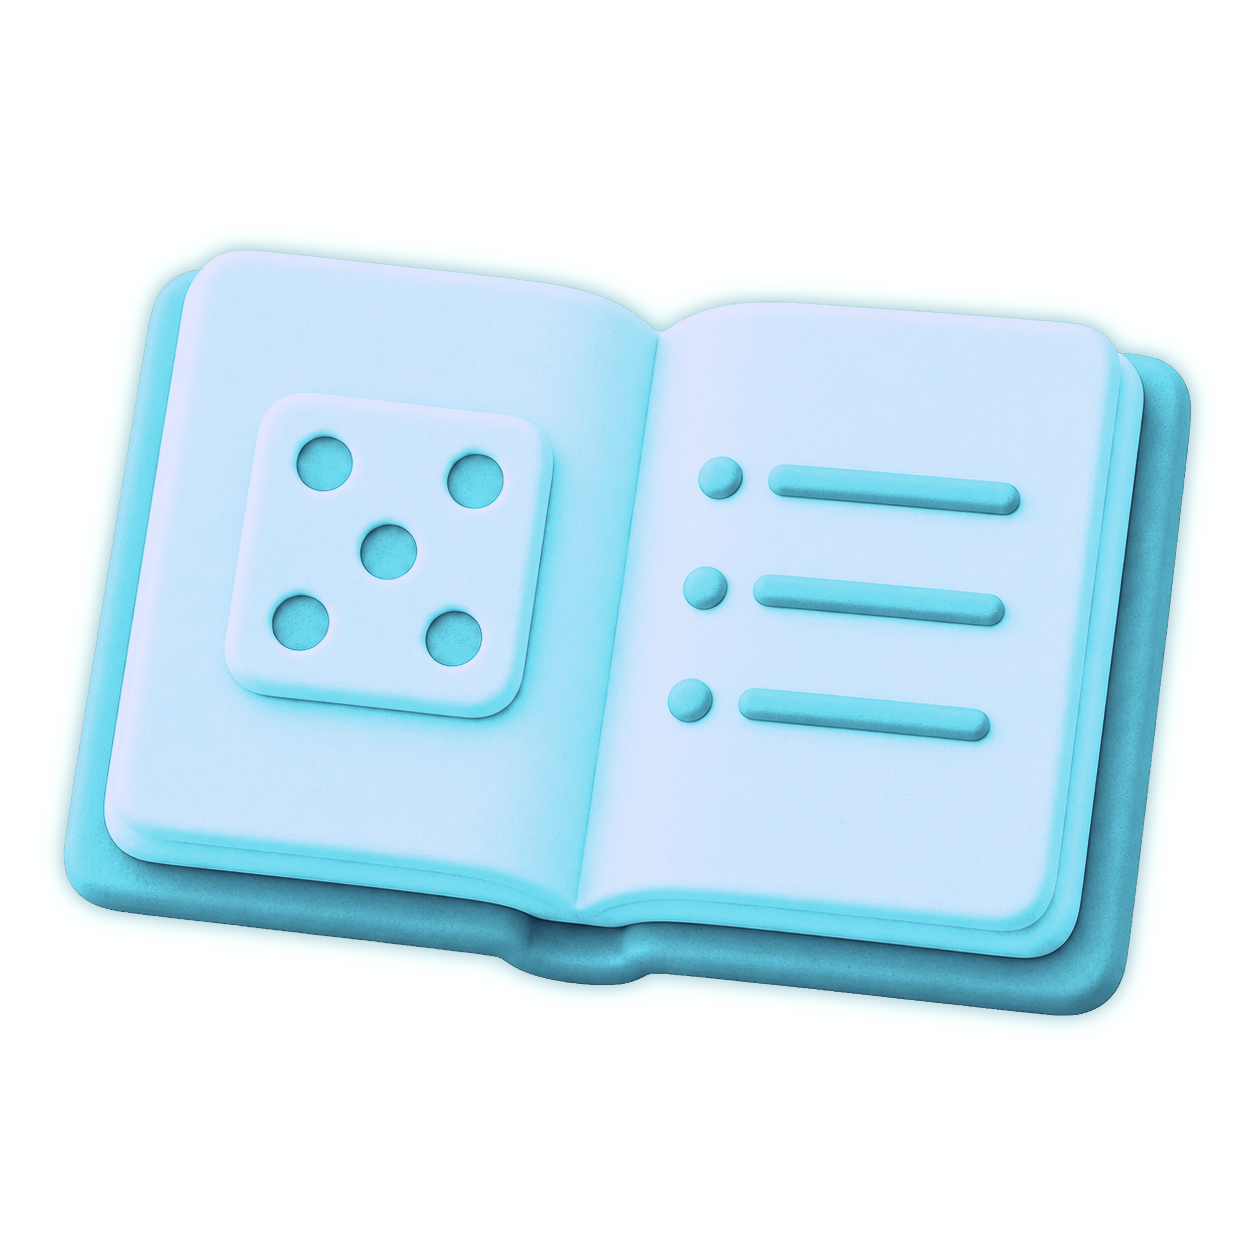
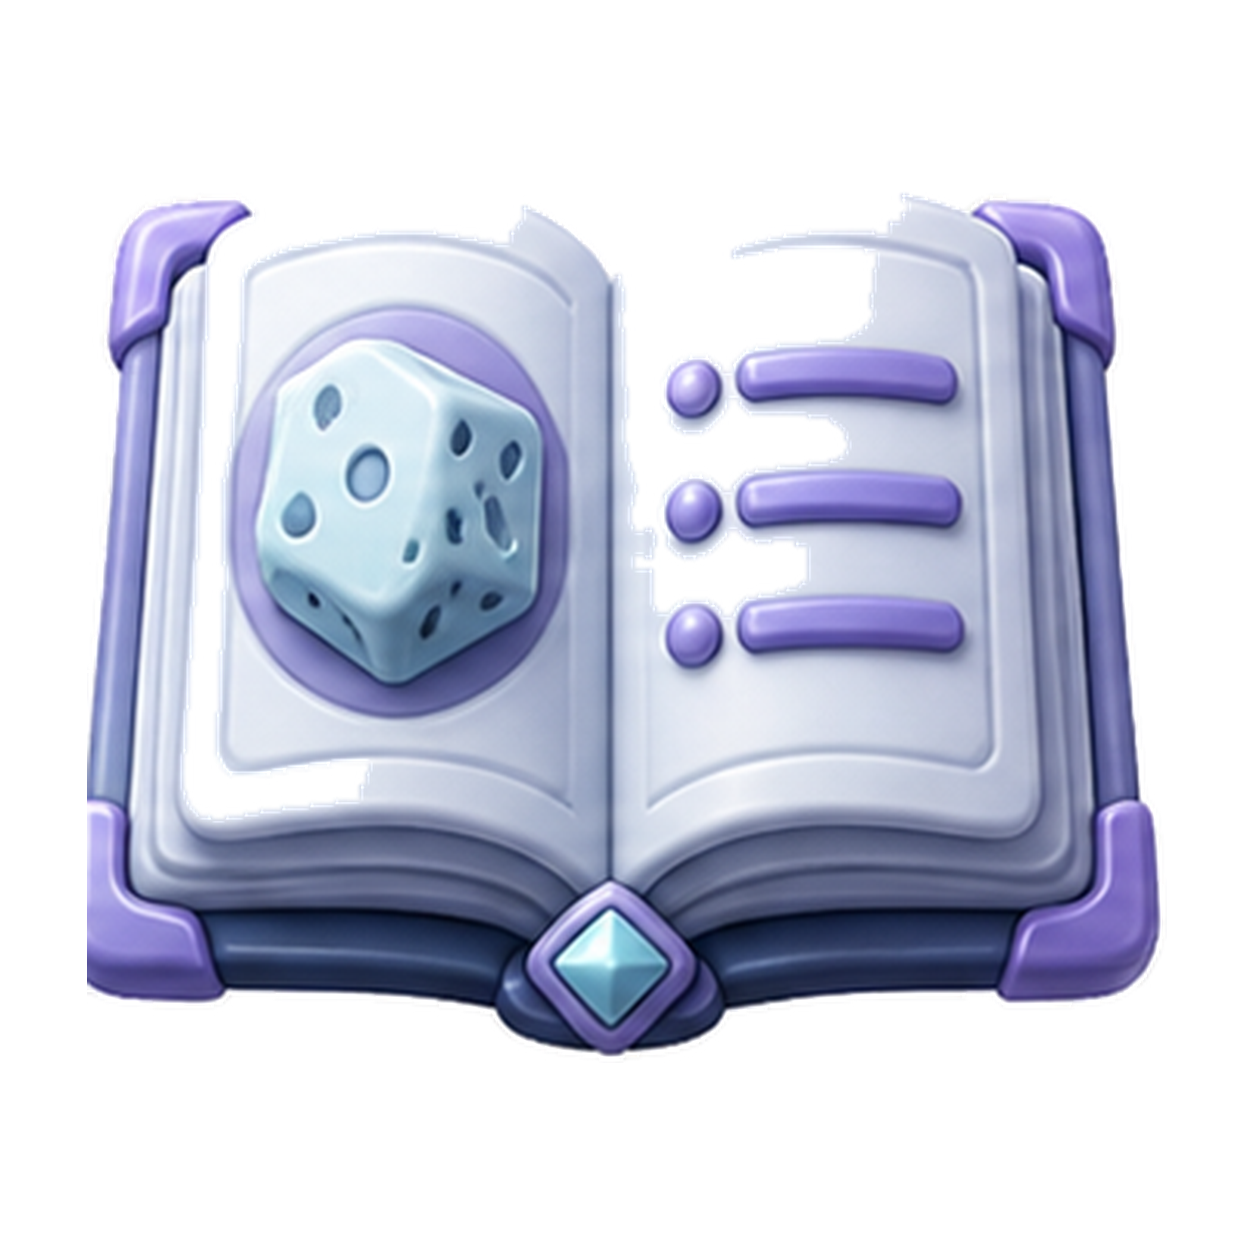
01

diff --git a/www/index.html b/www/index.html
@@ -7,8 +7,8 @@
     <link href="https://fonts.googleapis.com/css2?family=Montserrat:wght@200;400;600;700&display=swap" rel="stylesheet">
     
     <link rel="stylesheet" href="style.css?v=5.19">
-    <link rel="stylesheet" href="teme.css?v=6.18">
-    <link rel="stylesheet" href="kockice.css?v=1.2">
+    <link rel="stylesheet" href="teme.css?v=6.20">
+    <link rel="stylesheet" href="kockice.css?v=1.3">
     <link rel="stylesheet" href="efekti.css?v=1.4">
     
     <script src="languages.js?v=5.2"></script>
@@ -571,31 +571,31 @@
                 <svg class="menu-svg-icon menu-svg-icon--daily" aria-hidden="true" focusable="false"><use href="#menu-icon-daily"></use></svg>
                 <img class="easter-soft-clay-icon easter-soft-clay-icon--daily" src="assets/easter-soft-clay/daily-challenge-pro.png?v=3" alt="" aria-hidden="true" decoding="async">
                 <img class="desert-soft-clay-icon desert-soft-clay-icon--daily" src="assets/desert-soft-clay/daily-challenge-pro.png?v=1" alt="" aria-hidden="true" decoding="async">
-                <img class="nebula-soft-clay-icon nebula-soft-clay-icon--daily" src="assets/severna-soft-clay/daily-challenge-pro.png?v=1" alt="" aria-hidden="true" decoding="async">
+                <img class="nebula-soft-clay-icon nebula-soft-clay-icon--daily" src="assets/severna-soft-clay/daily-challenge-pro.png?v=3" alt="" aria-hidden="true" decoding="async">
             </button>
             <button class="btn-square" onclick="app.showHighscoresScreen()" aria-label="Top lista" data-lang-aria="menu_hs">
                 <svg class="menu-svg-icon" aria-hidden="true" focusable="false"><use href="#menu-icon-leaderboard"></use></svg>
                 <img class="easter-soft-clay-icon" src="assets/easter-soft-clay/leaderboard-pro.png" alt="" aria-hidden="true" decoding="async">
                 <img class="desert-soft-clay-icon" src="assets/desert-soft-clay/leaderboard-pro.png?v=1" alt="" aria-hidden="true" decoding="async">
-                <img class="nebula-soft-clay-icon" src="assets/severna-soft-clay/leaderboard-pro.png?v=1" alt="" aria-hidden="true" decoding="async">
+                <img class="nebula-soft-clay-icon" src="assets/severna-soft-clay/leaderboard-pro.png?v=3" alt="" aria-hidden="true" decoding="async">
             </button>
             <button class="btn-square" onclick="app.showStats()" aria-label="Statistika" data-lang-aria="menu_stats">
                 <svg class="menu-svg-icon" aria-hidden="true" focusable="false"><use href="#menu-icon-stats"></use></svg>
                 <img class="easter-soft-clay-icon" src="assets/easter-soft-clay/statistics-pro.png" alt="" aria-hidden="true" decoding="async">
                 <img class="desert-soft-clay-icon" src="assets/desert-soft-clay/statistics-pro.png?v=1" alt="" aria-hidden="true" decoding="async">
-                <img class="nebula-soft-clay-icon" src="assets/severna-soft-clay/statistics-pro.png?v=1" alt="" aria-hidden="true" decoding="async">
+                <img class="nebula-soft-clay-icon" src="assets/severna-soft-clay/statistics-pro.png?v=3" alt="" aria-hidden="true" decoding="async">
             </button>
             <button class="btn-square" onclick="app.showSettings()" aria-label="Podešavanja" data-lang-aria="menu_settings">
                 <svg class="menu-svg-icon" aria-hidden="true" focusable="false"><use href="#menu-icon-settings"></use></svg>
                 <img class="easter-soft-clay-icon" src="assets/easter-soft-clay/settings-pro.png" alt="" aria-hidden="true" decoding="async">
                 <img class="desert-soft-clay-icon" src="assets/desert-soft-clay/settings-pro.png?v=1" alt="" aria-hidden="true" decoding="async">
-                <img class="nebula-soft-clay-icon" src="assets/severna-soft-clay/settings-pro.png?v=1" alt="" aria-hidden="true" decoding="async">
+                <img class="nebula-soft-clay-icon" src="assets/severna-soft-clay/settings-pro.png?v=3" alt="" aria-hidden="true" decoding="async">
             </button>
             <button class="btn-square" onclick="app.showRules()" aria-label="Pravila igre" data-lang-aria="menu_rules">
                 <svg class="menu-svg-icon" aria-hidden="true" focusable="false"><use href="#menu-icon-rules"></use></svg>
                 <img class="easter-soft-clay-icon" src="assets/easter-soft-clay/rules-pro.png" alt="" aria-hidden="true" decoding="async">
                 <img class="desert-soft-clay-icon" src="assets/desert-soft-clay/rules-pro.png?v=1" alt="" aria-hidden="true" decoding="async">
-                <img class="nebula-soft-clay-icon" src="assets/severna-soft-clay/rules-pro.png?v=1" alt="" aria-hidden="true" decoding="async">
+                <img class="nebula-soft-clay-icon" src="assets/severna-soft-clay/rules-pro.png?v=3" alt="" aria-hidden="true" decoding="async">
             </button>
         </div>
     </div>

diff --git a/www/kockice.css b/www/kockice.css
@@ -49,6 +49,7 @@
 .preview-glass_sapphire { background: linear-gradient(135deg, rgba(65, 105, 225, 0.5), rgba(0, 0, 100, 0.4)); border: 1px solid rgba(100, 150, 255, 0.5); color: #c0d0ff; box-shadow: inset 0 0 15px rgba(65, 105, 225, 0.4); }
 .preview-desert_glass { background: linear-gradient(145deg, #fff7e5, #e8b96f); border: 1px solid rgba(151,84,35,.42); color: #5b3117; box-shadow: 4px 4px 8px rgba(124,68,31,.24), -3px -3px 7px rgba(255,250,234,.72), inset 1px 1px 2px rgba(255,255,255,.82); }
 .preview-easter_neumorphic { background: linear-gradient(145deg, #fffaf4 0%, #f7e8f2 54%, #ddcbed 100%); border: 1px solid rgba(151,83,156,.34); color: #6b2c8f; box-shadow: 4px 4px 8px rgba(184,148,111,.24), -3px -3px 7px rgba(255,255,255,.74), inset 1px 1px 2px rgba(255,255,255,.86); }
+.preview-severna_nebula { background: radial-gradient(circle at 28% 22%, #f1feff 0%, #8cefff 34%, #9f8dff 58%, #102247 100%); border: 1px solid rgba(207,250,255,.72); color: #061526; box-shadow: 4px 4px 9px rgba(0,3,16,.34), -3px -3px 8px rgba(142,238,255,.26), inset 1px 1px 3px rgba(255,255,255,.76), inset -2px -2px 4px rgba(6,18,46,.28); }
 .preview-magma { background: radial-gradient(circle, #ffeb3b 10%, #ff9800 40%, #b71c1c 90%); color: #fff; border: 2px solid #ff5722; box-shadow: 0 0 10px #ff5722; text-shadow: 0 0 2px #000; animation: magmaPulse 3s infinite alternate; }
 @keyframes magmaPulse { 0% { box-shadow: 0 0 10px #ff5722; } 100% { box-shadow: 0 0 20px #ff9800; } }
 .preview-galaxy { background: radial-gradient(circle at 30% 30%, #a18cd1 0%, #302b63 50%, #0f0c29 100%); color: #fff; border: 1px solid #a18cd1; box-shadow: 0 0 10px rgba(161, 140, 209, 0.5); }
@@ -105,6 +106,7 @@
 .dice.skin-glass_sapphire { background: linear-gradient(135deg, rgba(65, 105, 225, 0.5), rgba(0, 0, 100, 0.4)) !important; border: 1px solid rgba(100, 150, 255, 0.5) !important; color: #c0d0ff !important; box-shadow: inset 0 0 5px rgba(65, 105, 225, 0.4) !important; }
 .dice.skin-desert_glass { background: linear-gradient(145deg, #fff7e5, #e8b96f) !important; border: 1px solid rgba(151,84,35,.42) !important; color: #5b3117 !important; box-shadow: 5px 5px 11px rgba(124,68,31,.27), -5px -5px 11px rgba(255,250,234,.72), inset 1px 1px 2px rgba(255,255,255,.82) !important; }
 .dice.skin-easter_neumorphic { background: linear-gradient(145deg, #fffaf4 0%, #f7e8f2 54%, #ddcbed 100%) !important; border: 1px solid rgba(151,83,156,.34) !important; color: #6b2c8f !important; box-shadow: 6px 6px 12px rgba(184,148,111,.34), -5px -5px 12px rgba(255,255,255,.82), inset 1px 1px 2px rgba(255,255,255,.86), inset -1px -1px 2px rgba(160,118,82,.12) !important; }
+.dice.skin-severna_nebula { background: radial-gradient(circle at 28% 22%, #f1feff 0%, #8cefff 34%, #9f8dff 58%, #102247 100%) !important; border: 1px solid rgba(207,250,255,.72) !important; color: #061526 !important; box-shadow: 6px 6px 13px rgba(0,3,16,.42), -5px -5px 12px rgba(142,238,255,.24), 0 0 12px rgba(134,247,255,.20), inset 1px 1px 3px rgba(255,255,255,.78), inset -2px -2px 5px rgba(6,18,46,.30) !important; }
 .dice.skin-magma { background: radial-gradient(circle, #ffeb3b 10%, #ff9800 40%, #b71c1c 90%) !important; color: #fff !important; border: 1px solid #ff5722 !important; box-shadow: 0 0 5px #ff5722 !important; text-shadow: 0 0 2px #000 !important; animation: magmaPulseDice 3s infinite alternate !important; }
 .dice.skin-galaxy { background: radial-gradient(circle at 30% 30%, #a18cd1 0%, #302b63 50%, #0f0c29 100%) !important; color: #fff !important; border: 1px solid #a18cd1 !important; box-shadow: 0 0 5px rgba(161, 140, 209, 0.5) !important; }
 .dice.skin-retro { background-color: #9bbc0f !important; background-image: linear-gradient(transparent 50%, rgba(0,0,0,0.1) 50%), linear-gradient(90deg, transparent 50%, rgba(0,0,0,0.1) 50%) !important; background-size: 4px 4px !important; color: #0f380f !important; border: 2px solid #0f380f !important; font-family: 'Courier New', monospace !important; font-weight: 900 !important; border-radius: 4px !important; }
@@ -122,6 +124,15 @@
 /* Magma i Hologram efekti */
 .skin-magma .dice-dot, .preview-magma .dice-dot { box-shadow: 0 0 3px #000, inset 0 2px 4px rgba(0,0,0,0.5) !important; }
 .skin-hologram .dice-dot, .preview-hologram .dice-dot { box-shadow: 2px 0 #00ffff, -1px 0 #ff00ff, inset 0 2px 4px rgba(0,0,0,0.3) !important; }
+
+.skin-severna_nebula .dice-dot,
+.preview-severna_nebula .dice-dot {
+    background: radial-gradient(circle at 36% 30%, #ffffff 0%, #d9fbff 34%, #59dff3 78%) !important;
+    box-shadow:
+        0 0 6px rgba(134,247,255,.58),
+        inset 0 1px 2px rgba(255,255,255,.72),
+        inset 0 -2px 3px rgba(7,21,48,.34) !important;
+}
 
 /* Zlatni i Spartanski - dodavanje dubine crnim senkama */
 .skin-gold_ancient .dice-dot, .preview-gold_ancient .dice-dot,

diff --git a/www/game.js b/www/game.js
@@ -1459,15 +1459,13 @@ class YambApp {
             window.statsManager.saveStats();
         }
 
-        if (isFirstThemeSelection) {
+        if (isFirstThemeSelection && activateAsDefault) {
             localStorage.setItem(markerKey, 'true');
-            if (activateAsDefault) {
-                localStorage.setItem('yamb_active_skin', safeSkinId);
-                if (typeof this.updateDiceVisuals === 'function' && this.features) this.updateDiceVisuals();
-                document.querySelectorAll('.daily-glass-die.dice').forEach(element => {
-                    this.features?.applySkinToElement(element, element.classList.contains('held'));
-                });
-            }
+            localStorage.setItem('yamb_active_skin', safeSkinId);
+            if (typeof this.updateDiceVisuals === 'function' && this.features) this.updateDiceVisuals();
+            document.querySelectorAll('.daily-glass-die.dice').forEach(element => {
+                this.features?.applySkinToElement(element, element.classList.contains('held'));
+            });
         }
     }
 
@@ -1486,7 +1484,8 @@ class YambApp {
 
         const themeDefaultSkins = {
             desert: 'desert_glass',
-            easter: 'easter_neumorphic'
+            easter: 'easter_neumorphic',
+            severna: 'severna_nebula'
         };
         const defaultSkin = themeDefaultSkins[safeTheme];
         if (defaultSkin && !skipThemeDiceDefault) {
@@ -6506,22 +6505,24 @@ class YambApp {
         const activeTbl = document.getElementById(`ptable-${this.currentPlayerIdx}`);
         const gameScene = document.getElementById('game-scene');
         const isEasterTwoPlayerGame = document.body.classList.contains('easter-theme') && this.players.length === 2;
-        const isEasterOnlineDuel = isEasterTwoPlayerGame && this.onlineMode;
-        const isEasterRandomDuel = isEasterOnlineDuel
+        const isSevernaTwoPlayerGame = document.body.classList.contains('severna-theme') && this.players.length === 2;
+        const usesTwoPlayerThemePager = isEasterTwoPlayerGame || isSevernaTwoPlayerGame;
+        const isThemeOnlineDuel = usesTwoPlayerThemePager && this.onlineMode;
+        const isThemeRandomDuel = isThemeOnlineDuel
             && this.inferOnlineDuelType(this.roomId, { duelType: this.onlineDuelType }) === 'random';
         const isDesertSpectatorDuel = document.body.classList.contains('desert-theme') && this.isSpectator && this.players.length === 2;
-        // Vaskr koristi isti slobodan vertikalni pager za svaki režim sa dva igrača.
+        // Neuphorism teme koriste isti slobodan vertikalni pager za svaki režim sa dva igrača.
         if (gameScene) {
-            gameScene.classList.toggle('theme-dual-board-view', isEasterTwoPlayerGame);
-            gameScene.classList.toggle('online-duel-room', isEasterOnlineDuel);
-            gameScene.classList.toggle('random-online-duel-room', isEasterRandomDuel);
+            gameScene.classList.toggle('theme-dual-board-view', usesTwoPlayerThemePager);
+            gameScene.classList.toggle('online-duel-room', isThemeOnlineDuel);
+            gameScene.classList.toggle('random-online-duel-room', isThemeRandomDuel);
             gameScene.classList.toggle('theme-spectator-view', isDesertSpectatorDuel);
         }
         playerTables.forEach(el => el.classList.remove('theme-spectator-active'));
 
         if(activeTbl) {
             activeTbl.style.border = "2px solid var(--gold-main)"; activeTbl.style.boxShadow = "0 0 15px rgba(224, 201, 149, 0.2)"; activeTbl.style.opacity = "1";
-            const usesThemedDualPager = isEasterTwoPlayerGame || isDesertSpectatorDuel;
+            const usesThemedDualPager = usesTwoPlayerThemePager || isDesertSpectatorDuel;
             const shouldFollowActiveTable = this.players.length > 1 &&
                 (!usesThemedDualPager || this.dualBoardLastFollowedPlayerIdx !== this.currentPlayerIdx);
             if (shouldFollowActiveTable) {

diff --git a/www/teme.css b/www/teme.css
@@ -621,6 +621,7 @@ body.easter-theme .player-table > * {
 /* Vaskr: isti vertikalni pager za svaki duel sa dva igrača (online, spectator i Hotseat).
    Dimenzije tabela ostaju iste; sprečava se flex sabijanje i spoj dve polovine u kadru. */
 body.easter-theme #game-scene.theme-dual-board-view .tables-wrapper,
+body.severna-theme #game-scene.theme-dual-board-view .tables-wrapper,
 body.desert-theme #game-scene.theme-spectator-view .tables-wrapper {
     display: flex !important;
     flex-direction: column !important;
@@ -639,6 +640,7 @@ body.desert-theme #game-scene.theme-spectator-view .tables-wrapper {
 }
 
 body.easter-theme #game-scene.theme-dual-board-view .player-table,
+body.severna-theme #game-scene.theme-dual-board-view .player-table,
 body.desert-theme #game-scene.theme-spectator-view .player-table {
     flex: 0 0 auto !important;
     min-height: max-content;
@@ -12292,4 +12294,50 @@ body.severna-theme #main-menu .spec-turnir:active > .nebula-soft-clay-special-ic
     body.severna-theme #main-menu .icon-menu-grid .btn-square .nebula-soft-clay-icon {
         animation: none !important;
     }
+}
+
+/* Kvartalna liga — single-logo guard.
+   Samo Vaskrs i Pustinjsko staklo koriste svoje QL znakove; sve ostale teme
+   ostaju na standardnom znaku. Sprečava dupliranje/tripliranje logo slojeva. */
+#league-intro .league-intro-mark-easter,
+#league-intro .league-intro-mark-desert,
+#league-modal-overlay .league-modal-header-icon-easter,
+#league-modal-overlay .league-modal-header-icon-desert {
+    display: none !important;
+}
+
+#league-intro:not(.theme-easter):not(.theme-desert) .league-intro-mark,
+body:not(.easter-theme):not(.desert-theme) #league-modal-overlay .league-modal-header-icon-default {
+    display: block !important;
+}
+
+#league-intro:not(.theme-easter):not(.theme-desert) .league-intro-mark-easter,
+#league-intro:not(.theme-easter):not(.theme-desert) .league-intro-mark-desert,
+body:not(.easter-theme):not(.desert-theme) #league-modal-overlay .league-modal-header-icon-easter,
+body:not(.easter-theme):not(.desert-theme) #league-modal-overlay .league-modal-header-icon-desert {
+    display: none !important;
+}
+
+#league-intro.theme-easter .league-intro-mark,
+#league-intro.theme-easter .league-intro-mark-desert,
+body.easter-theme #league-modal-overlay .league-modal-header-icon-default,
+body.easter-theme #league-modal-overlay .league-modal-header-icon-desert {
+    display: none !important;
+}
+
+#league-intro.theme-easter .league-intro-mark-easter,
+body.easter-theme #league-modal-overlay .league-modal-header-icon-easter {
+    display: block !important;
+}
+
+#league-intro.theme-desert .league-intro-mark,
+#league-intro.theme-desert .league-intro-mark-easter,
+body.desert-theme #league-modal-overlay .league-modal-header-icon-default,
+body.desert-theme #league-modal-overlay .league-modal-header-icon-easter {
+    display: none !important;
+}
+
+#league-intro.theme-desert .league-intro-mark-desert,
+body.desert-theme #league-modal-overlay .league-modal-header-icon-desert {
+    display: block !important;
 }

diff --git a/www/config.js b/www/config.js
@@ -121,6 +121,7 @@ const SHOP_DATA = {
         { id: 'glass_sapphire', name: { sr: 'Safir', en: 'Sapphire' }, price: 50000, category: { sr: '💎 STAKLO & DRAGULJI', en: '💎 GLASS & GEMS' } },
         { id: 'desert_glass', name: { sr: 'Pustinjsko Staklo', en: 'Desert Glass' }, price: 0, desc: { sr: 'Besplatan skin koji se dobija pri prvom izboru teme Pustinjsko staklo.', en: 'A free skin granted when Desert Glass is selected for the first time.' }, category: { sr: '💎 STAKLO & DRAGULJI', en: '💎 GLASS & GEMS' } },
         { id: 'easter_neumorphic', name: { sr: 'Vaskršnja Pastela', en: 'Easter Pastel' }, price: 0, desc: { sr: 'Besplatan skin koji se dobija pri prvom izboru Vaskršnje teme.', en: 'A free skin granted when the Easter theme is selected for the first time.' }, category: { sr: '🐣 VASKRŠNJI PACK', en: '🐣 EASTER PACK' } },
+        { id: 'severna_nebula', name: { sr: 'Severna Maglina', en: 'Northern Nebula' }, price: 0, desc: { sr: 'Besplatan skin koji se dobija pri prvom izboru teme Severna Maglina.', en: 'A free skin granted when the Northern Nebula theme is selected for the first time.' }, category: { sr: '🌌 SEVERNA MAGLINA PACK', en: '🌌 NORTHERN NEBULA PACK' } },
         
         { id: 'magma', name: { sr: 'Magma Core', en: 'Magma Core' }, price: 75000, category: { sr: '🌌 KOSMOS & MISTIKA', en: '🌌 COSMOS & MYSTIC' } },
         { id: 'galaxy', name: { sr: 'Galaksija', en: 'Galaxy' }, price: 85000, category: { sr: '🌌 KOSMOS & MISTIKA', en: '🌌 COSMOS & MYSTIC' } },
